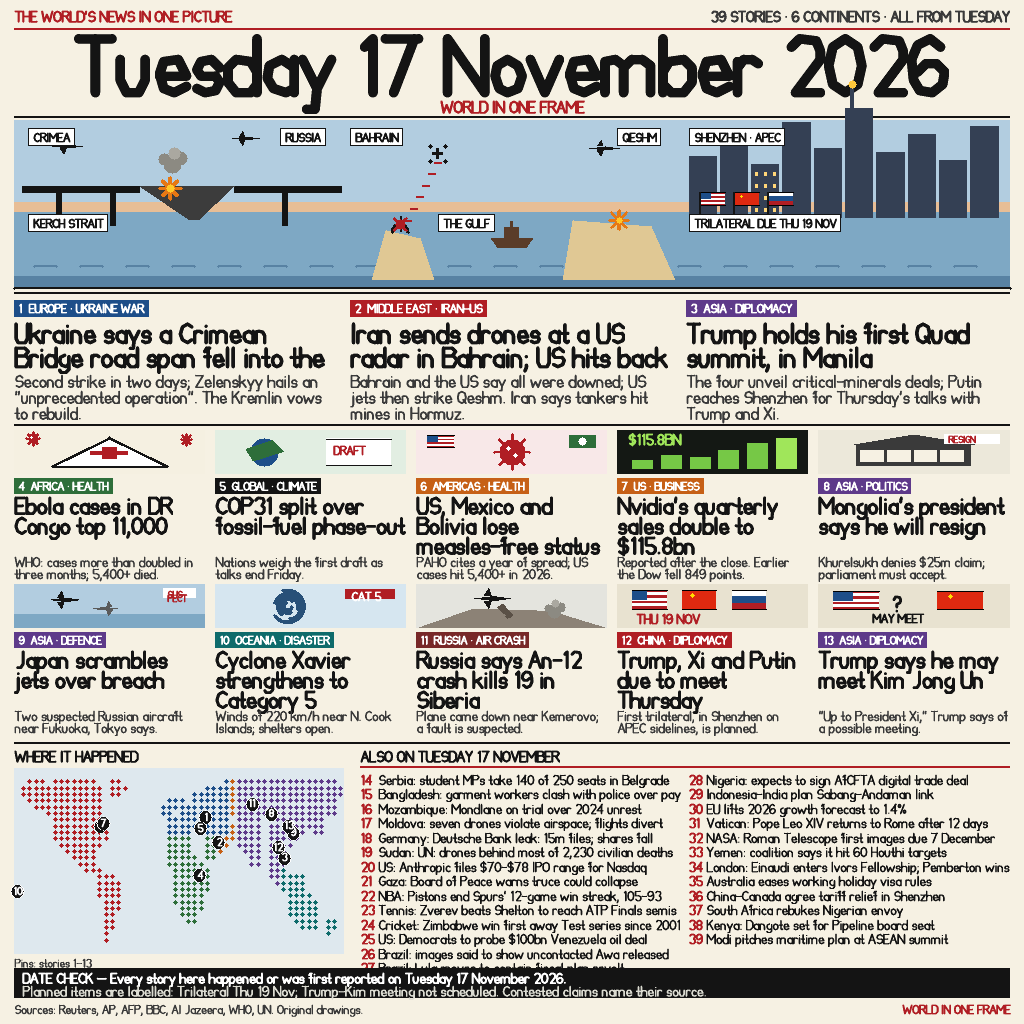
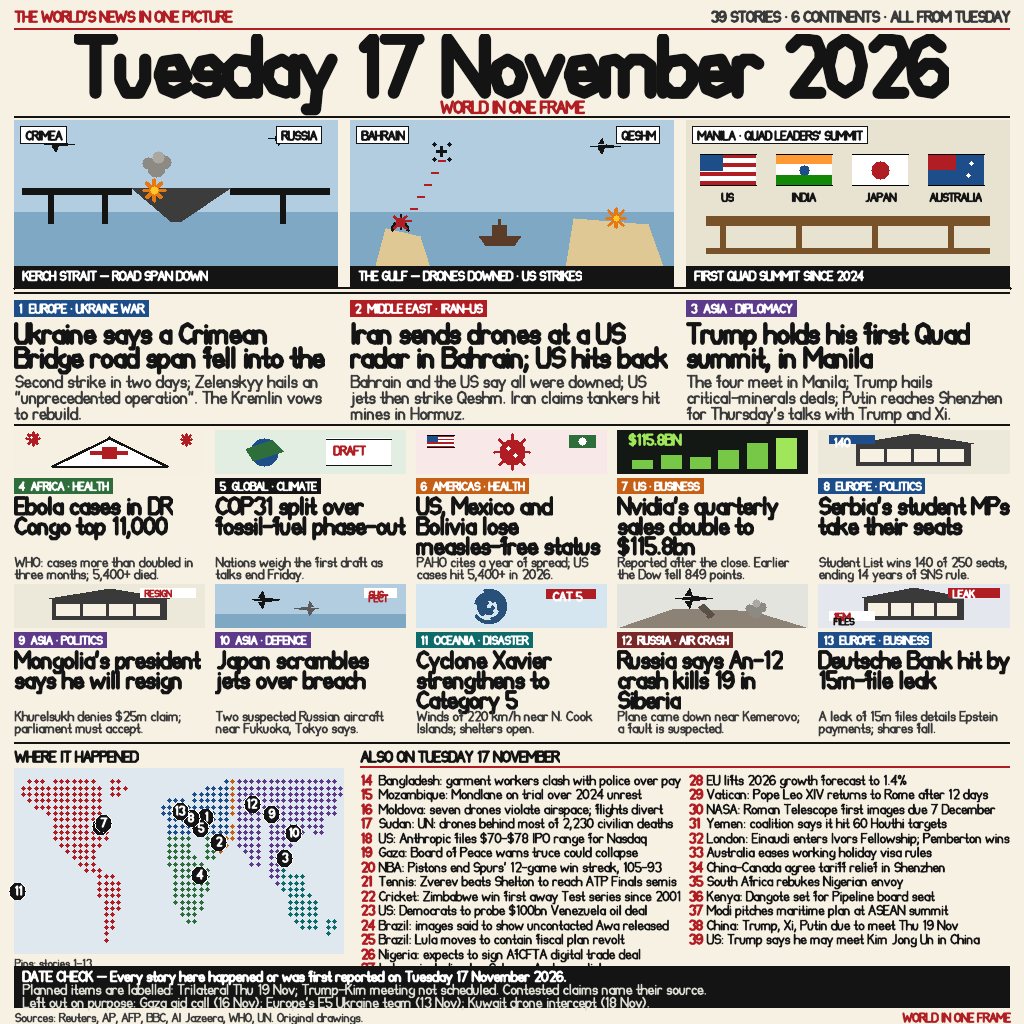
v4: 3 lead panels, Serbia + Deutsche Bank featured, bolder AA font, DATE CHECK names exclusions

diff --git a/main.py b/main.py
@@ -435,18 +435,36 @@ def draw_text(cv, x, y, s, cap, color, bold=False, align='left', maxw=None):
         x = x - w_px
     if maxw is not None:
         w_px = min(w_px, maxw)
-    SS = 3
-    sw = 1.7 * sc * SS * (1.35 if bold else 1.0)
-    bw = int(math.ceil(w_px * SS)) + 4
-    bh = int(math.ceil(20 * sc * SS)) + 4
+    SS = 4
+    sw = 1.9 * sc * SS * (1.5 if bold else 1.0)
+    bw = int(math.ceil(w_px * SS)) + 6
+    bh = int(math.ceil(20 * sc * SS)) + 6
     buf = bytearray(bw * bh)
-    cx = 2.0
+    cx = 3.0
     for ch in s:
         g = FONT.get(ch)
         if g is None:
             g = FONT['?']
-        _render_glyph_ss(buf, bw, cx, 2.0, sc * SS, sw, ch)
+        _render_glyph_ss(buf, bw, cx, 3.0, sc * SS, sw, ch)
         cx += g[0] * sc * SS
+    # one 3x3 box-blur pass on the supersampled buffer: smooths the
+    # polygonal stroke joints so small text reads clean, not hand-drawn
+    buf2 = bytearray(bw * bh)
+    for yy in range(bh):
+        for xx in range(bw):
+            acc = 0
+            cnt = 0
+            for dy in (-1, 0, 1):
+                y2 = yy + dy
+                if y2 < 0 or y2 >= bh:
+                    continue
+                for dx in (-1, 0, 1):
+                    x2 = xx + dx
+                    if 0 <= x2 < bw:
+                        acc += buf[y2 * bw + x2]
+                        cnt += 1
+            buf2[yy * bw + xx] = acc // cnt
+    buf = buf2
     # downsample + composite
     ox = int(math.floor(x))
     oy = int(math.floor(y))
@@ -541,17 +559,17 @@ def draw_map(cv, x, y, w, h, pins=None):
             for c in range(c0, c1 + 1):
                 cx = ox + (c + 0.5) * cell
                 cy = oy + (r + 0.5) * cell
-                cv.disc(cx, cy, max(1.5, cell * 0.36), _region_color(c, r))
+                cv.disc(cx, cy, max(1.8, cell * 0.42), _region_color(c, r))
     if pins:
         for (lon, lat, n) in pins:
             col = (lon + 170.0) / 355.0 * 52.0
             row = (75.0 - lat) / 125.0 * 26.0
             px = ox + col * cell
             py = oy + row * cell
-            cv.disc(px, py, 7.5, INK)
-            cv.ring(px, py, 7.5, 1, (255, 255, 255))
-            draw_text(cv, px - text_width(str(n), 8) / 2.0, py - 5.5,
-                      str(n), 8, (255, 255, 255), bold=True)
+            cv.disc(px, py, 9, INK)
+            cv.ring(px, py, 9, 1, (255, 255, 255))
+            draw_text(cv, px - text_width(str(n), 9) / 2.0, py - 6,
+                      str(n), 9, (255, 255, 255), bold=True)
 
 
 # ------------------------------------------------------- small flat icons
@@ -783,6 +801,14 @@ def icon_strip(cv, x, y, w, h, kind):
         _flag(cv, x + w * 0.62, y + h * 0.16, w * 0.24, h * 0.44, 'cn')
         draw_text(cv, x + w * 0.38, y + h * 0.26, '?', 16, INK, bold=True)
         draw_text(cv, x + w * 0.28, y + h * 0.68, 'MAY MEET', 9, INK, bold=True)
+    elif kind == 'bank':
+        cv.fill_rect(x, y, x + w, y + h, (228, 232, 238))
+        _building(cv, cx - w * 0.26, y + h * 0.3, w * 0.52, h * 0.54, INK_SOFT)
+        cv.fill_rect(x + w * 0.68, y + h * 0.1, x + w * 0.95, y + h * 0.32, RED)
+        draw_text(cv, x + w * 0.7, y + h * 0.13, 'LEAK', 8, (255, 255, 255), bold=True)
+        cv.fill_rect(x + w * 0.06, y + h * 0.62, x + w * 0.3, y + h * 0.86, (255, 255, 255))
+        draw_text(cv, x + w * 0.08, y + h * 0.65, '15M', 8, RED, bold=True)
+        draw_text(cv, x + w * 0.08, y + h * 0.76, 'FILES', 7, INK, bold=True)
     elif kind == 'serbia':
         cv.fill_rect(x, y, x + w, y + h, (236, 232, 218))
         _building(cv, cx - w * 0.3, y + h * 0.3, w * 0.6, h * 0.52, INK_SOFT)
@@ -810,80 +836,91 @@ def icon_strip(cv, x, y, w, h, kind):
         cv.disc(cx, cy, h * 0.22, BLUE)
         draw_text(cv, cx - 3, cy - 5, 'N', 10, (255, 255, 255), bold=True)
 
-# ------------------------------------------------------- lead panorama
-def draw_panorama(cv, x, y, w, h):
-    """One continuous scene: Kerch -> the Gulf -> Shenzhen (APEC)."""
+# ------------------------------------------------------- lead panels
+# Three separate illustrated lead panels (Kerch / the Gulf / Quad),
+# each labelled and captioned like a front page's lead art.
+def _kerch_panel(cv, x, y, w, h):
     x1 = x + w
     y1 = y + h
     horizon = y + int(h * 0.55)
-    # sky and sea
     cv.fill_rect(x, y, x1, horizon, SKY)
-    cv.fill_rect(x, horizon - 10, x1, horizon, SKY_DUSK)
     cv.fill_rect(x, horizon, x1, y1, SEA)
-    cv.fill_rect(x, y1 - 12, x1, y1, SEA_DARK)
-    for wx in range(x + 20, x1 - 10, 46):
-        cv.line(wx, y1 - 22, wx + 22, y1 - 22, SEA_DARK, 2)
-    # ---- left: Kerch Bridge, Crimea
-    bx0, bx1 = x + 8, x + int(w * 0.33)
-    deck_y = horizon - 26
-    cv.fill_rect(bx0, deck_y, bx0 + 118, deck_y + 7, INK)
-    cv.fill_rect(bx1 - 108, deck_y, bx1, deck_y + 7, INK)
-    cv.poly([(bx0 + 118, deck_y), (bx0 + 168, horizon + 8),
-             (bx0 + 176, horizon + 8), (bx1 - 108, deck_y)], (60, 60, 60))
-    for px in (bx0 + 34, bx0 + 88, bx1 - 60):
-        cv.fill_rect(px, deck_y + 7, px + 6, horizon + 14, INK)
-    _smoke(cv, bx0 + 150, deck_y - 22, 1.1)
-    _burst(cv, bx0 + 148, deck_y + 2, 1.0)
-    _jet(cv, bx0 + 30, y + 26, 1.0, INK)
-    _jet(cv, bx0 + 210, y + 18, 0.9, INK)
-    _chip(cv, bx0 + 6, y + 8, 'CRIMEA', 9)
-    _chip(cv, bx1 - 62, y + 8, 'RUSSIA', 9)
-    _chip(cv, bx0 + 6, horizon + 2, 'KERCH STRAIT', 9)
-    # ---- middle: the Gulf — Bahrain, Qeshm, Hormuz
-    gx0, gx1 = x + int(w * 0.33), x + int(w * 0.67)
-    cv.poly([(gx0 + 30, y1 - 8), (gx0 + 44, horizon + 18), (gx0 + 78, horizon + 26),
-             (gx0 + 92, y1 - 8)], SAND)
-    cv.poly([(gx1 - 118, y1 - 8), (gx1 - 108, horizon + 8), (gx1 - 30, horizon + 14),
-             (gx1 - 6, y1 - 8)], SAND)
-    cv.arc(gx0 + 58, horizon + 20, 8, math.pi, 2 * math.pi, INK, 2)
-    cv.vline(gx0 + 58, horizon + 4, horizon + 20, INK, 2)
-    _drone(cv, gx0 + 96, y + 34, 1.8, INK)
-    _jet(cv, gx1 - 92, y + 28, 1.0, INK)
+    cv.fill_rect(x, y1 - 10, x1, y1, SEA_DARK)
+    deck_y = horizon - 24
+    cv.fill_rect(x + 8, deck_y, x + 118, deck_y + 7, INK)
+    cv.fill_rect(x + w - 108, deck_y, x1 - 8, deck_y + 7, INK)
+    cv.poly([(x + 118, deck_y), (x + 158, horizon + 10),
+             (x + 166, horizon + 10), (x + w - 108, deck_y)], (60, 60, 60))
+    for px in (x + 34, x + 88, x + w - 58):
+        cv.fill_rect(px, deck_y + 7, px + 6, horizon + 12, INK)
+    _smoke(cv, x + 142, deck_y - 20, 1.1)
+    _burst(cv, x + 140, deck_y + 2, 1.0)
+    _jet(cv, x + 30, y + 24, 1.0, INK)
+    _jet(cv, x + w - 70, y + 18, 0.9, INK)
+    _chip(cv, x + 6, y + 6, 'CRIMEA', 9)
+    _chip(cv, x + w - 62, y + 6, 'RUSSIA', 9)
+    cv.fill_rect(x, y1 - 22, x1, y1, INK)
+    draw_text(cv, x + 8, y1 - 18, 'KERCH STRAIT — ROAD SPAN DOWN', 9.5, (255, 255, 255), bold=True)
+
+
+def _gulf_panel(cv, x, y, w, h):
+    x1 = x + w
+    y1 = y + h
+    horizon = y + int(h * 0.55)
+    cv.fill_rect(x, y, x1, horizon, SKY)
+    cv.fill_rect(x, horizon, x1, y1, SEA)
+    cv.fill_rect(x, y1 - 10, x1, y1, SEA_DARK)
+    cv.poly([(x + 22, y1 - 8), (x + 36, horizon + 16), (x + 70, horizon + 24),
+             (x + 84, y1 - 8)], SAND)
+    cv.poly([(x + w - 110, y1 - 8), (x + w - 100, horizon + 6), (x + w - 26, horizon + 12),
+             (x + w - 6, y1 - 8)], SAND)
+    cv.arc(x + 50, horizon + 18, 8, math.pi, 2 * math.pi, INK, 2)
+    cv.vline(x + 50, horizon + 2, horizon + 18, INK, 2)
+    _drone(cv, x + 92, y + 32, 1.8, INK)
+    _jet(cv, x + w - 84, y + 26, 1.0, INK)
     for i in range(6):
         t = i / 5.0
-        sx = int(gx0 + 92 - t * 30)
-        sy = int(y + 42 + t * (horizon - y - 34))
+        sx = int(x + 88 - t * 34)
+        sy = int(y + 40 + t * (horizon - y - 32))
         cv.fill_rect(sx, sy, sx + 8, sy + 2, RED)
-    _burst(cv, gx1 - 62, horizon + 8, 0.9)
-    _ship(cv, gx0 + 170, horizon + 26, 1.3, (90, 60, 40))
-    cv.disc(gx0 + 58, horizon + 12, 5, RED)
-    cv.line(gx0 + 52, horizon + 6, gx0 + 64, horizon + 18, RED, 2)
-    cv.line(gx0 + 64, horizon + 6, gx0 + 52, horizon + 18, RED, 2)
-    _chip(cv, gx0 + 8, y + 8, 'BAHRAIN', 9)
-    _chip(cv, gx1 - 64, y + 8, 'QESHM', 9)
-    _chip(cv, gx0 + 96, horizon + 2, 'THE GULF', 9)
-    # ---- right: Shenzhen skyline, APEC
-    sx0, sx1 = x + int(w * 0.67), x1
-    base = horizon + 6
-    heights = [62, 88, 54, 96, 70, 110, 66, 84, 58, 92]
-    bw = (sx1 - sx0 - 16) / len(heights)
-    for i, hh in enumerate(heights):
-        bx = sx0 + 8 + i * bw
-        cv.fill_rect(bx, base - hh, bx + bw - 3, base, (52, 64, 84))
-        for wy in range(int(base - hh + 8), int(base - 6), 12):
-            for wx in range(int(bx + 4), int(bx + bw - 7), 9):
-                if (int(wx) + int(wy)) % 3 == 0:
-                    cv.fill_rect(wx, wy, wx + 3, wy + 4, (255, 214, 120))
-    spx = sx0 + int((sx1 - sx0) * 0.52)
-    cv.fill_rect(spx - 2, base - 132, spx + 2, base, (52, 64, 84))
-    cv.disc(spx, base - 134, 4, (255, 200, 60))
-    for i, k in enumerate(('us', 'cn', 'ru')):
-        fx = sx0 + 18 + i * 34
-        cv.vline(fx, base - 26, base + 2, INK, 2)
-        _flag(cv, fx + 2, base - 26, 24, 14, k)
-    _chip(cv, sx0 + 8, y + 8, 'SHENZHEN · APEC', 9)
-    _chip(cv, sx0 + 8, horizon + 2, 'TRILATERAL DUE THU 19 NOV', 9)
-    cv.line(x, y1, x1, y1, INK, 2)
+    _burst(cv, x + w - 58, horizon + 6, 0.9)
+    _ship(cv, x + 150, horizon + 24, 1.3, (90, 60, 40))
+    cv.disc(x + 50, horizon + 10, 5, RED)
+    cv.line(x + 44, horizon + 4, x + 56, horizon + 16, RED, 2)
+    cv.line(x + 56, horizon + 4, x + 44, horizon + 16, RED, 2)
+    _chip(cv, x + 6, y + 6, 'BAHRAIN', 9)
+    _chip(cv, x + w - 58, y + 6, 'QESHM', 9)
+    cv.fill_rect(x, y1 - 22, x1, y1, INK)
+    draw_text(cv, x + 8, y1 - 18, 'THE GULF — DRONES DOWNED · US STRIKES', 9.5, (255, 255, 255), bold=True)
+
+
+def _quad_panel(cv, x, y, w, h):
+    x1 = x + w
+    y1 = y + h
+    cv.fill_rect(x, y, x1, y1, (232, 226, 208))
+    fw, fh = 56, 32
+    for i, k in enumerate(('us', 'in', 'jp', 'au')):
+        fx = x + 14 + i * 76
+        _flag(cv, fx, y + 34, fw, fh, k)
+    for i, lab in enumerate(('US', 'INDIA', 'JAPAN', 'AUSTRALIA')):
+        lx = x + 14 + i * 76 + fw / 2.0
+        draw_text(cv, lx, y + 72, lab, 8.5, INK, bold=True, align='center')
+    cv.fill_rect(x + 20, y + 96, x1 - 20, y + 106, (120, 82, 40))
+    for i in range(4):
+        lx = x + 34 + i * 76
+        cv.fill_rect(lx, y + 106, lx + 6, y + 128, (120, 82, 40))
+    cv.fill_rect(x + 20, y + 128, x1 - 20, y + 134, (120, 82, 40))
+    _chip(cv, x + 6, y + 6, 'MANILA · QUAD LEADERS\u2019 SUMMIT', 9)
+    cv.fill_rect(x, y1 - 22, x1, y1, INK)
+    draw_text(cv, x + 8, y1 - 18, 'FIRST QUAD SUMMIT SINCE 2024', 9.5, (255, 255, 255), bold=True)
+
+
+def draw_lead_panels(cv, x, y, w, h):
+    pw = (w - 24) / 3.0
+    _kerch_panel(cv, x, y, pw, h)
+    _gulf_panel(cv, x + pw + 12, y, pw, h)
+    _quad_panel(cv, x + 2 * (pw + 12), y, pw, h)
+    cv.line(x, y + h, x + w, y + h, INK, 2)
 
 
 def _chip(cv, x, y, s, cap):
@@ -908,11 +945,11 @@ STORIES = [
     dict(n=2, kicker='2  MIDDLE EAST · IRAN–US', icon='iran', lon=50.5, lat=26.2,
          head='Iran sends drones at a US radar in Bahrain; US hits back',
          deck='Bahrain and the US say all were downed; US jets then strike Qeshm. '
-              'Iran says tankers hit mines in Hormuz.'),
+              'Iran claims tankers hit mines in Hormuz.'),
     dict(n=3, kicker='3  ASIA · DIPLOMACY', icon='quad', lon=121.0, lat=14.6,
          head='Trump holds his first Quad summit, in Manila',
-         deck='The four unveil critical-minerals deals; Putin reaches Shenzhen for '
-              'Thursday\u2019s talks with Trump and Xi.'),
+         deck='The four meet in Manila; Trump hails critical-minerals deals; '
+              'Putin reaches Shenzhen for Thursday\u2019s talks with Trump and Xi.'),
     dict(n=4, kicker='4  AFRICA · HEALTH', icon='ebola', lon=30.0, lat=1.5,
          head='Ebola cases in DR Congo top 11,000',
          deck='WHO: cases more than doubled in three months; 5,400+ died.'),
@@ -925,55 +962,56 @@ STORIES = [
     dict(n=7, kicker='7  US · BUSINESS', icon='nvidia', lon=-74.0, lat=40.7,
          head='Nvidia\u2019s quarterly sales double to $115.8bn',
          deck='Reported after the close. Earlier the Dow fell 849 points.'),
-    dict(n=8, kicker='8  ASIA · POLITICS', icon='mongolia', lon=106.9, lat=47.9,
+    dict(n=8, kicker='8  EUROPE · POLITICS', icon='serbia', lon=20.5, lat=44.8,
+         head='Serbia\u2019s student MPs take their seats',
+         deck='Student List wins 140 of 250 seats, ending 14 years of SNS rule.'),
+    dict(n=9, kicker='9  ASIA · POLITICS', icon='mongolia', lon=106.9, lat=47.9,
          head='Mongolia\u2019s president says he will resign',
          deck='Khurelsukh denies $25m claim; parliament must accept.'),
-    dict(n=9, kicker='9  ASIA · DEFENCE', icon='japan', lon=130.4, lat=33.6,
+    dict(n=10, kicker='10  ASIA · DEFENCE', icon='japan', lon=130.4, lat=33.6,
          head='Japan scrambles jets over breach',
          deck='Two suspected Russian aircraft near Fukuoka, Tokyo says.'),
-    dict(n=10, kicker='10  OCEANIA · DISASTER', icon='xavier', lon=-165.8, lat=-10.9,
+    dict(n=11, kicker='11  OCEANIA · DISASTER', icon='xavier', lon=-165.8, lat=-10.9,
          head='Cyclone Xavier strengthens to Category 5',
          deck='Winds of 220 km/h near N. Cook Islands; shelters open.'),
-    dict(n=11, kicker='11  RUSSIA · AIR CRASH', icon='an12', lon=86.1, lat=55.4,
+    dict(n=12, kicker='12  RUSSIA · AIR CRASH', icon='an12', lon=86.1, lat=55.4,
          head='Russia says An-12 crash kills 19 in Siberia',
          deck='Plane came down near Kemerovo; a fault is suspected.'),
-    dict(n=12, kicker='12  CHINA · DIPLOMACY', icon='trilateral', lon=114.1, lat=22.5,
-         head='Trump, Xi and Putin due to meet Thursday',
-         deck='First trilateral, in Shenzhen on APEC sidelines, is planned.'),
-    dict(n=13, kicker='13  ASIA · DIPLOMACY', icon='trumpkim', lon=125.8, lat=39.0,
-         head='Trump says he may meet Kim Jong Un',
-         deck='\u201cUp to President Xi,\u201d Trump says of a possible meeting.'),
+    dict(n=13, kicker='13  EUROPE · BUSINESS', icon='bank', lon=8.7, lat=50.1,
+         head='Deutsche Bank hit by 15m-file leak',
+         deck='A leak of 15m files details Epstein payments; shares fall.'),
 ]
 
 # Numbered briefs (stories 14-39, verified in STORIES-EXTRA.md).
 # One line each, <=56 chars, facts compressed from the verified decks.
+# Trilateral (#38) and Trump-Kim (#39) are PLANNED, labelled as such.
 BRIEFS = [
-    (14, 'Serbia: student MPs take 140 of 250 seats in Belgrade'),
-    (15, 'Bangladesh: garment workers clash with police over pay'),
-    (16, 'Mozambique: Mondlane on trial over 2024 unrest'),
-    (17, 'Moldova: seven drones violate airspace; flights divert'),
-    (18, 'Germany: Deutsche Bank leak: 15m files; shares fall'),
-    (19, 'Sudan: UN: drones behind most of 2,230 civilian deaths'),
-    (20, 'US: Anthropic files $70-$78 IPO range for Nasdaq'),
-    (21, 'Gaza: Board of Peace warns truce could collapse'),
-    (22, "NBA: Pistons end Spurs' 12-game win streak, 105-93"),
-    (23, 'Tennis: Zverev beats Shelton to reach ATP Finals semis'),
-    (24, 'Cricket: Zimbabwe win first away Test series since 2001'),
-    (25, 'US: Democrats to probe $100bn Venezuela oil deal'),
-    (26, 'Brazil: images said to show uncontacted Awa released'),
-    (27, 'Brazil: Lula moves to contain fiscal plan revolt'),
-    (28, 'Nigeria: expects to sign AfCFTA digital trade deal'),
-    (29, 'Indonesia-India plan Sabang-Andaman link'),
-    (30, 'EU lifts 2026 growth forecast to 1.4%'),
-    (31, 'Vatican: Pope Leo XIV returns to Rome after 12 days'),
-    (32, 'NASA: Roman Telescope first images due 7 December'),
-    (33, 'Yemen: coalition says it hit 60 Houthi targets'),
-    (34, 'London: Einaudi enters Ivors Fellowship; Pemberton wins'),
-    (35, 'Australia eases working holiday visa rules'),
-    (36, 'China-Canada agree tariff relief in Shenzhen'),
-    (37, 'South Africa rebukes Nigerian envoy'),
-    (38, 'Kenya: Dangote set for Pipeline board seat'),
-    (39, 'Modi pitches maritime plan at ASEAN summit'),
+    (14, 'Bangladesh: garment workers clash with police over pay'),
+    (15, 'Mozambique: Mondlane on trial over 2024 unrest'),
+    (16, 'Moldova: seven drones violate airspace; flights divert'),
+    (17, 'Sudan: UN: drones behind most of 2,230 civilian deaths'),
+    (18, 'US: Anthropic files $70-$78 IPO range for Nasdaq'),
+    (19, 'Gaza: Board of Peace warns truce could collapse'),
+    (20, "NBA: Pistons end Spurs' 12-game win streak, 105-93"),
+    (21, 'Tennis: Zverev beats Shelton to reach ATP Finals semis'),
+    (22, 'Cricket: Zimbabwe win first away Test series since 2001'),
+    (23, 'US: Democrats to probe $100bn Venezuela oil deal'),
+    (24, 'Brazil: images said to show uncontacted Awa released'),
+    (25, 'Brazil: Lula moves to contain fiscal plan revolt'),
+    (26, 'Nigeria: expects to sign AfCFTA digital trade deal'),
+    (27, 'Indonesia-India plan Sabang-Andaman link'),
+    (28, 'EU lifts 2026 growth forecast to 1.4%'),
+    (29, 'Vatican: Pope Leo XIV returns to Rome after 12 days'),
+    (30, 'NASA: Roman Telescope first images due 7 December'),
+    (31, 'Yemen: coalition says it hit 60 Houthi targets'),
+    (32, 'London: Einaudi enters Ivors Fellowship; Pemberton wins'),
+    (33, 'Australia eases working holiday visa rules'),
+    (34, 'China-Canada agree tariff relief in Shenzhen'),
+    (35, 'South Africa rebukes Nigerian envoy'),
+    (36, 'Kenya: Dangote set for Pipeline board seat'),
+    (37, 'Modi pitches maritime plan at ASEAN summit'),
+    (38, 'China: Trump, Xi, Putin due to meet Thu 19 Nov'),
+    (39, 'US: Trump says he may meet Kim Jong Un in China'),
 ]
 
 # ---------------------------------------------------------------- layout
@@ -1034,8 +1072,8 @@ def build():
     draw_text(cv, MX + CW / 2.0, 34, title, 58, INK, bold=True, align='center')
     draw_text(cv, MX + CW / 2.0, 100, 'WORLD IN ONE FRAME', 12, RED, bold=True, align='center')
     cv.fill_rect(MX, 116, MX + CW, 118, INK)
-    # ---- lead panorama
-    draw_panorama(cv, MX, 120, CW, 168)
+    # ---- lead panels (one per top story, labelled + captioned)
+    draw_lead_panels(cv, MX, 120, CW, 168)
     cv.fill_rect(MX, 292, MX + CW, 294, INK)
     # ---- 3 lead cards
     leads = STORIES[0:3]
@@ -1075,15 +1113,17 @@ def build():
         draw_map(cv, MX, 768, CW, 186, pins=pins)
         draw_text(cv, MX, 958, 'Pins: stories 1\u201313', 8.5, INK_SOFT)
     # ---- date check strip (text to the judge — allowed and read)
-    cv.fill_rect(MX, 968, MX + CW, 998, INK)
+    cv.fill_rect(MX, 966, MX + CW, 1008, INK)
     dc1 = 'DATE CHECK \u2014 Every story here happened or was first reported on Tuesday 17 November 2026.'
     dc2 = 'Planned items are labelled: Trilateral Thu 19 Nov; Trump\u2013Kim meeting not scheduled. Contested claims name their source.'
-    draw_text(cv, MX + 8, 972, dc1, 10.5, (255, 255, 255), bold=True)
-    draw_text(cv, MX + 8, 985, dc2, 10.5, (220, 220, 210))
+    dc3 = 'Left out on purpose: Gaza aid call (16 Nov); Europe\u2019s E5 Ukraine team (13 Nov); Kuwait drone intercept (18 Nov).'
+    draw_text(cv, MX + 8, 970, dc1, 10.5, (255, 255, 255), bold=True)
+    draw_text(cv, MX + 8, 983, dc2, 10.5, (220, 220, 210))
+    draw_text(cv, MX + 8, 996, dc3, 10.5, (220, 220, 210))
     # ---- footer
-    draw_text(cv, MX, 1004, 'Sources: Reuters, AP, AFP, BBC, Al Jazeera, WHO, UN. Original drawings.',
+    draw_text(cv, MX, 1012, 'Sources: Reuters, AP, AFP, BBC, Al Jazeera, WHO, UN. Original drawings.',
               9, INK_SOFT)
-    draw_text(cv, MX + CW - text_width('WORLD IN ONE FRAME', 9), 1004,
+    draw_text(cv, MX + CW - text_width('WORLD IN ONE FRAME', 9), 1012,
               'WORLD IN ONE FRAME', 9, RED, bold=True)
     return cv
 
